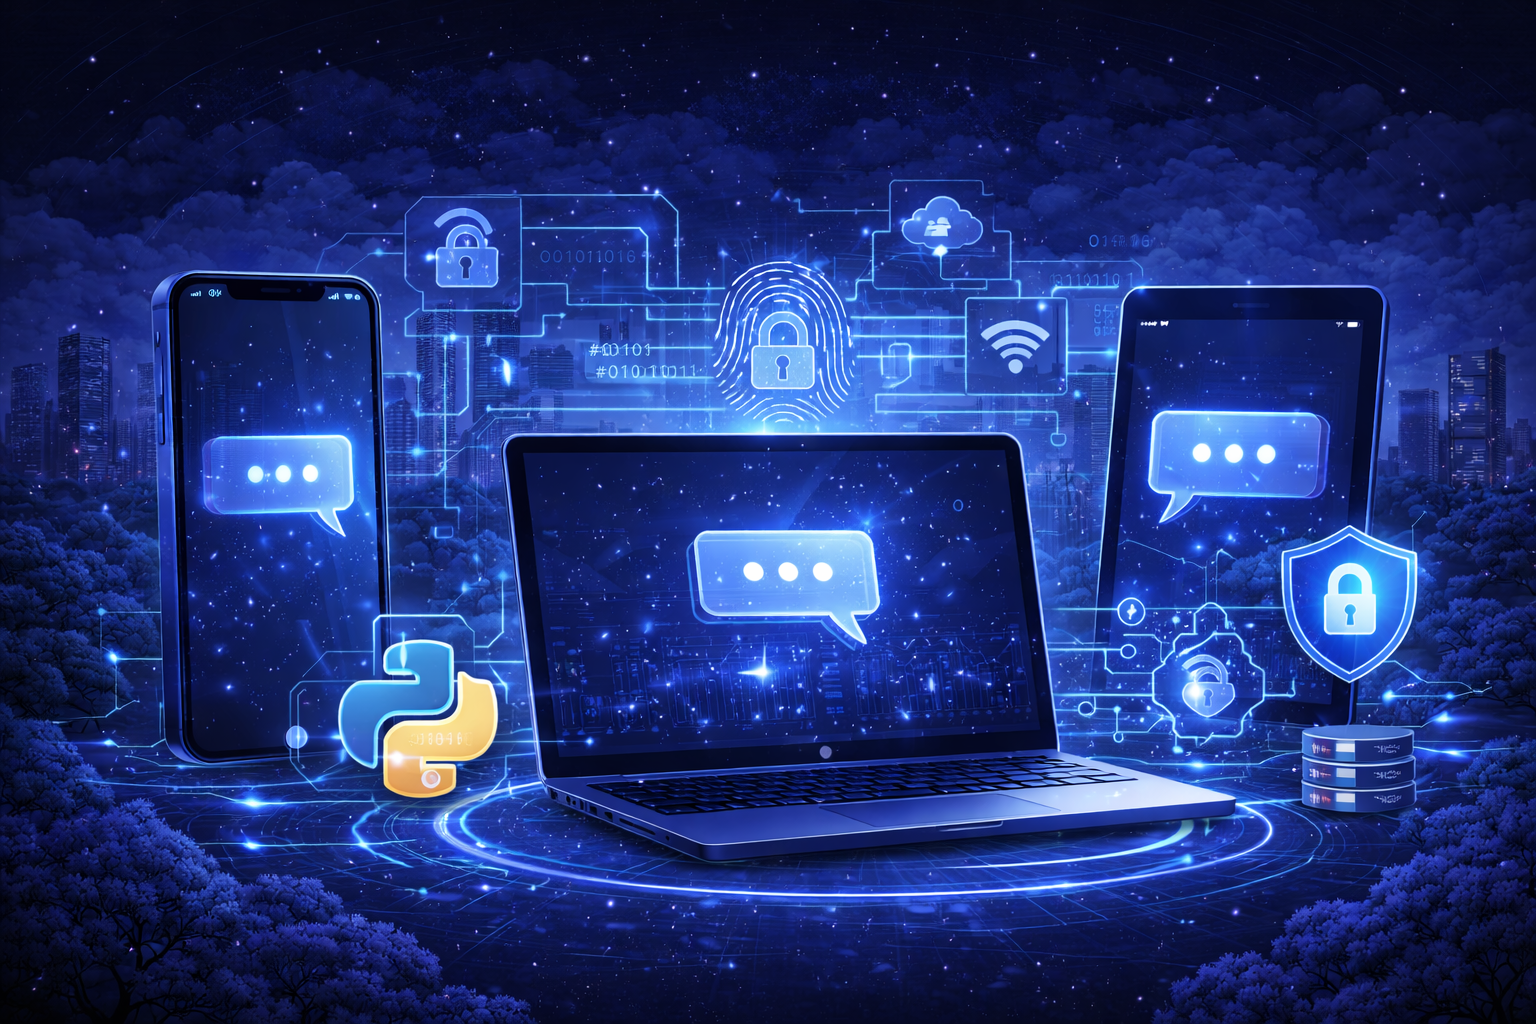
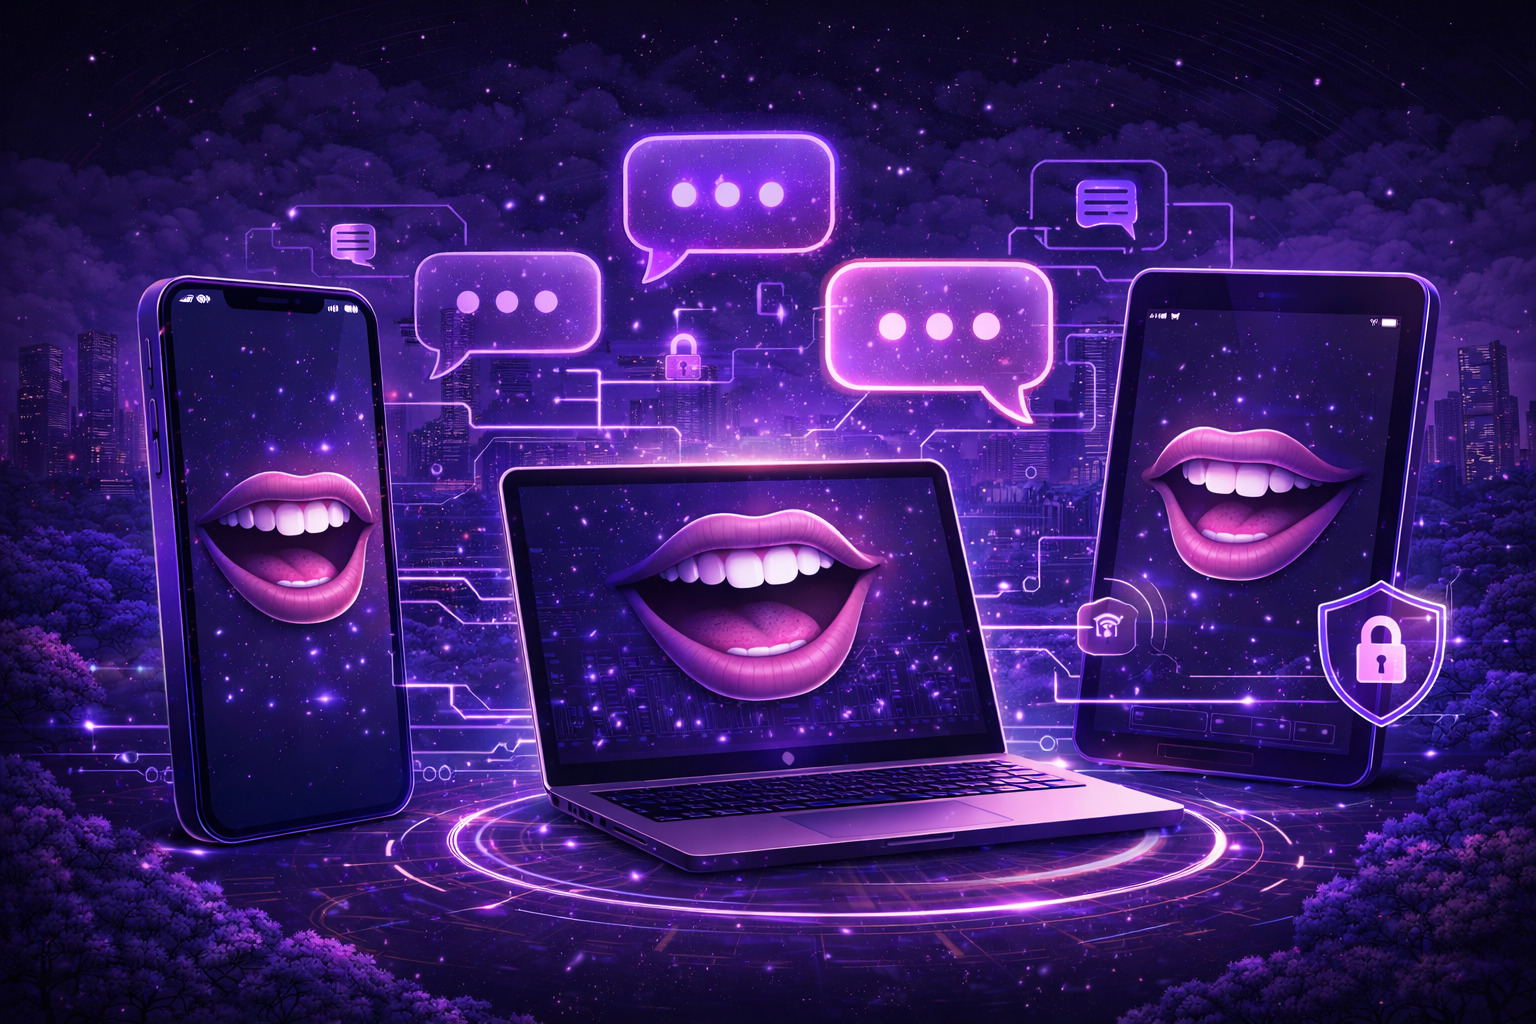
updated images

diff --git a/index.html b/index.html
@@ -516,7 +516,7 @@ footer {
     </a>
 
     <a href="https://github.com/MarketStreetCyber/Blabber" class="project-card">
-      <div class="project-image" style="background-image: url('images/holder.png');"></div>
+      <div class="project-image" style="background-image: url('images/blabber.png');"></div>
       <div class="project-content">
         <h3 class="project-title">Blabber</h3>
         <p class="project-description">
@@ -532,7 +532,7 @@ footer {
     </a>
 
     <a href="under-construction.html" class="project-card">
-      <div class="project-image" style="background-image: url('images/holder.png');"></div>
+      <div class="project-image" style="background-image: url('images/research.png');"></div>
       <div class="project-content">
         <h3 class="project-title">Client Tooling & Research</h3>
         <p class="project-description">
